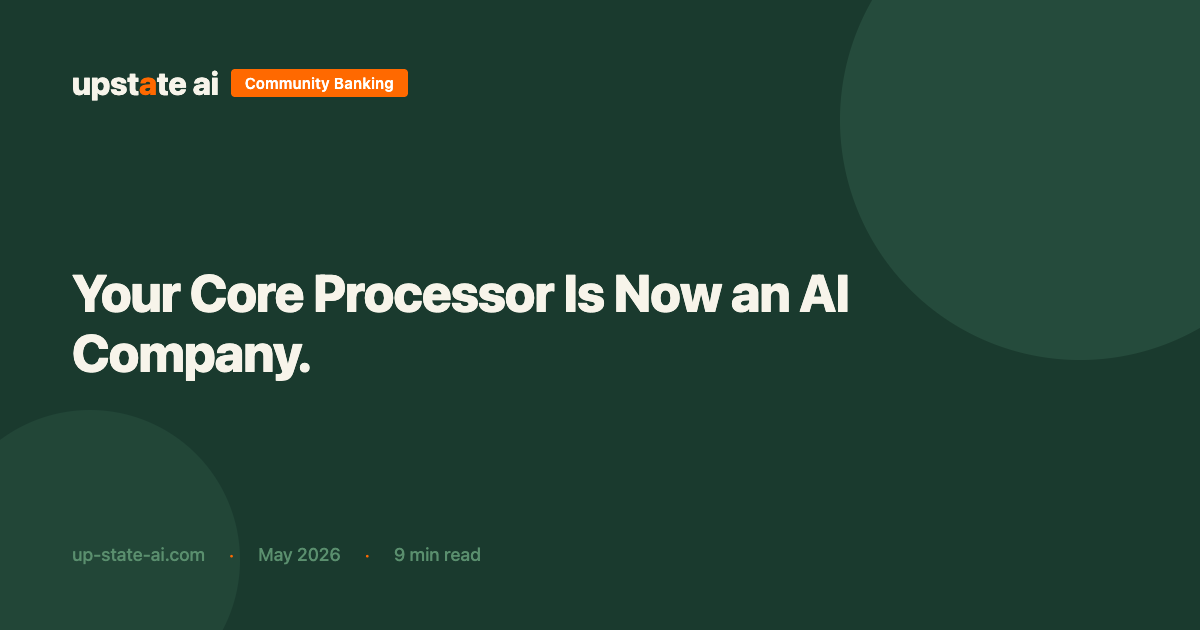
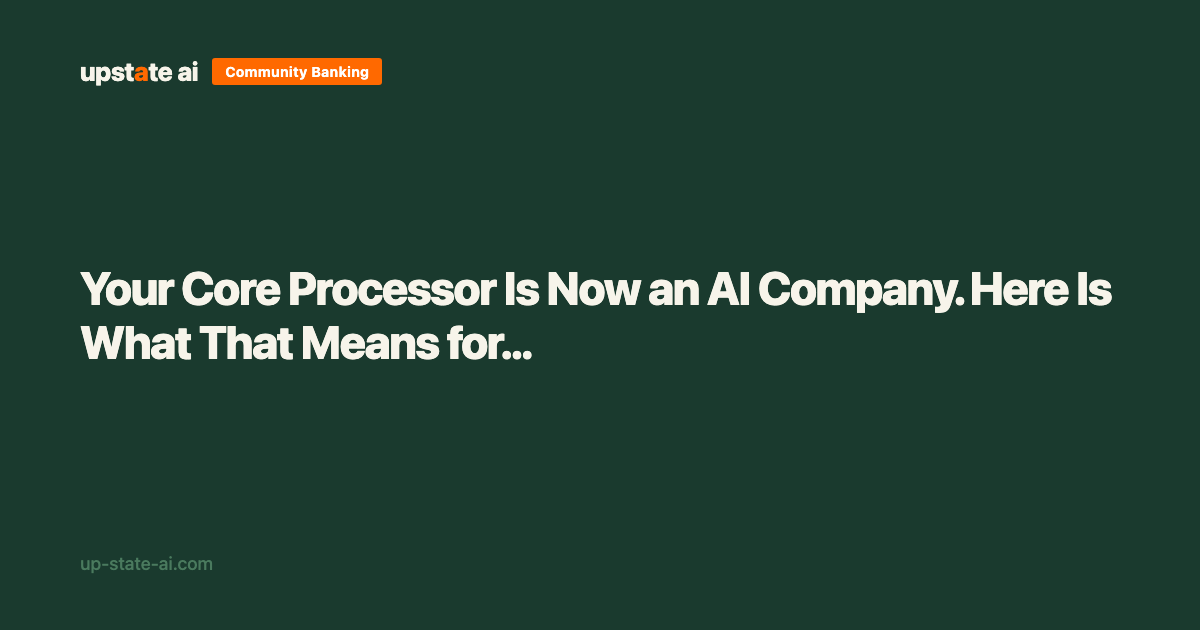
feat: per-post OG images for all 16 blog posts + generate-og.js script

diff --git a/scripts/generate-og.js b/scripts/generate-og.js
@@ -1,0 +1,116 @@
+#!/usr/bin/env node
+// generate-og.js — generate OG social card images for blog posts and pages
+// Usage: node scripts/generate-og.js
+// Generates images/og/<slug>.png for each blog post, plus images/og-image.png for the site
+
+import { execSync, spawnSync } from 'child_process';
+import { writeFileSync, mkdirSync, readFileSync } from 'fs';
+import { join, dirname } from 'path';
+import { fileURLToPath } from 'url';
+import os from 'os';
+
+const __dirname = dirname(fileURLToPath(import.meta.url));
+const ROOT = join(__dirname, '..');
+const OG_DIR = join(ROOT, 'images', 'og');
+const CHROME = '/Applications/Google Chrome.app/Contents/MacOS/Google Chrome';
+
+mkdirSync(OG_DIR, { recursive: true });
+
+// Brand
+const GREEN = '#1a3a2e';
+const CREAM = '#f7f4ea';
+const ORANGE = '#ff6900';
+const MUTED = '#4a7a5e';
+
+function buildHtml({ title, category, isGeneric = false }) {
+  if (isGeneric) {
+    return `<!DOCTYPE html><html><head><meta charset="UTF-8"><style>
+*{margin:0;padding:0;box-sizing:border-box;}
+body{width:1200px;height:630px;background:${GREEN};font-family:-apple-system,BlinkMacSystemFont,'Segoe UI',sans-serif;display:flex;flex-direction:column;justify-content:space-between;padding:60px 72px;}
+.logo{font-size:36px;font-weight:800;color:${CREAM};letter-spacing:-0.5px;}
+.logo span{color:${ORANGE};}
+.headline{font-size:72px;font-weight:800;color:${CREAM};line-height:1.1;letter-spacing:-2px;}
+.headline span{color:${ORANGE};}
+.sub{font-size:20px;font-weight:500;color:${MUTED};}
+</style></head><body>
+<div class="logo">upst<span>a</span>te ai</div>
+<div class="headline">Put <span>AI</span><br>to Work.</div>
+<div class="sub">up-state-ai.com</div>
+</body></html>`;
+  }
+
+  // Truncate at word boundary
+  const maxChars = 72;
+  let short = title;
+  if (title.length > maxChars) {
+    short = title.slice(0, maxChars).replace(/\s\S+$/, '') + '...';
+  }
+  const fontSize = short.length > 55 ? '46px' : short.length > 38 ? '54px' : '62px';
+
+  return `<!DOCTYPE html><html><head><meta charset="UTF-8"><style>
+*{margin:0;padding:0;box-sizing:border-box;}
+body{width:1200px;height:630px;background:${GREEN};font-family:-apple-system,BlinkMacSystemFont,'Segoe UI',sans-serif;position:relative;overflow:hidden;}
+.top{position:absolute;top:56px;left:80px;display:flex;align-items:center;gap:14px;}
+.logo{font-size:26px;font-weight:800;color:${CREAM};letter-spacing:-0.5px;}
+.logo span{color:${ORANGE};}
+.tag{background:${ORANGE};color:#fff;font-size:14px;font-weight:700;padding:5px 13px;border-radius:3px;letter-spacing:0.3px;}
+.headline{position:absolute;top:50%;left:80px;right:80px;transform:translateY(-50%);font-size:${fontSize};font-weight:800;color:${CREAM};line-height:1.18;letter-spacing:-1.5px;}
+.domain{position:absolute;bottom:56px;left:80px;font-size:18px;font-weight:500;color:${MUTED};}
+</style></head><body>
+<div class="top"><div class="logo">upst<span>a</span>te ai</div>${category ? `<div class="tag">${category}</div>` : ''}</div>
+<div class="headline">${short}</div>
+<div class="domain">up-state-ai.com</div>
+</body></html>`;
+}
+
+function renderOG(html, outPath) {
+  const tmp = join(os.tmpdir(), `og-${Date.now()}.html`);
+  writeFileSync(tmp, html);
+
+  spawnSync(CHROME, [
+    '--headless=new',
+    `--screenshot=${outPath}`,
+    '--window-size=1200,630',
+    '--force-device-scale-factor=1',
+    '--hide-scrollbars',
+    '--no-sandbox',
+    '--disable-gpu',
+    `file://${tmp}`
+  ], { stdio: 'pipe' });
+
+  execSync(`rm -f "${tmp}"`);
+}
+
+// --- Posts from posts.yml (simple parse) ---
+const postsYml = readFileSync(join(ROOT, '_data', 'posts.yml'), 'utf8');
+const posts = [];
+let current = {};
+for (const line of postsYml.split('\n')) {
+  if (line.match(/^- title:/)) {
+    if (current.url) posts.push(current);
+    current = {};
+  }
+  const titleMatch = line.match(/title:\s*"(.+)"/);
+  const urlMatch = line.match(/url:\s*"(.+)"/);
+  const catMatch = line.match(/category:\s*"(.+)"/);
+  if (titleMatch) current.title = titleMatch[1];
+  if (urlMatch) current.url = urlMatch[1];
+  if (catMatch) current.category = catMatch[1];
+}
+if (current.url) posts.push(current);
+
+// Generic site OG image
+console.log('Generating generic og-image.png...');
+renderOG(buildHtml({ isGeneric: true }), join(ROOT, 'images', 'og-image.png'));
+console.log('  done');
+
+// Per-post OG images
+for (const post of posts) {
+  const slug = post.url.replace('blog/', '');
+  const outPath = join(OG_DIR, `${slug}.png`);
+  console.log(`Generating og/${slug}.png...`);
+  renderOG(buildHtml({ title: post.title, category: post.category }), outPath);
+  console.log('  done');
+}
+
+console.log(`\nGenerated ${posts.length} post images + 1 generic. Output: images/og/`);

diff --git a/blog/immune-system-internet-april-2026.html b/blog/immune-system-internet-april-2026.html
@@ -27,7 +27,7 @@
     <meta property="og:url" content="https://up-state-ai.com/blog/immune-system-internet-april-2026">
     <meta property="og:title" content="The Immune System Internet: A Thought Experiment on Living Cybersecurity | Upstate AI">
     <meta property="og:description" content="What happens when digital defense stops looking like a firewall and starts looking like biology? A thought experiment prompted by Anthropic's Claude Mythos and OpenAI's GPT-5.4-Cyber.">
-    <meta property="og:image" content="https://up-state-ai.com/images/og-image.png">
+    <meta property="og:image" content="https://up-state-ai.com/images/og/immune-system-internet-april-2026.png">
     <meta property="og:site_name" content="Upstate AI">
     <meta property="article:published_time" content="2026-04-15">
     <meta property="article:author" content="Ben Nichols">

diff --git a/blog/agentic-payments-community-banks-april-2026.html b/blog/agentic-payments-community-banks-april-2026.html
@@ -27,7 +27,7 @@
     <meta property="og:url" content="https://up-state-ai.com/blog/agentic-payments-community-banks-april-2026">
     <meta property="og:title" content="AI Agents Can Now Swipe Your Card. Community Banks Need to Pay Attention. | Upstate AI">
     <meta property="og:description" content="Mastercard just gave AI agents the ability to use your credit card. Here's what that means for community banks, and why sitting this out isn't an option.">
-    <meta property="og:image" content="https://up-state-ai.com/images/og-image.png">
+    <meta property="og:image" content="https://up-state-ai.com/images/og/agentic-payments-community-banks-april-2026.png">
     <meta property="og:site_name" content="Upstate AI">
     <meta property="article:published_time" content="2026-04-18">
     <meta property="article:author" content="Ben Nichols">

diff --git a/blog/ai-literacy-st-bonaventure-april-2026.html b/blog/ai-literacy-st-bonaventure-april-2026.html
@@ -26,7 +26,7 @@
     <meta property="og:url" content="https://up-state-ai.com/blog/ai-literacy-st-bonaventure-april-2026">
     <meta property="og:title" content="St. Bonaventure Just Made the Smartest Move in Higher Ed">
     <meta property="og:description" content="St. Bonaventure University just made AI literacy mandatory for every incoming freshman. Here's why this is the smartest move in higher education, and what CNY businesses need to learn from it.">
-    <meta property="og:image" content="https://up-state-ai.com/images/og-image.png">
+    <meta property="og:image" content="https://up-state-ai.com/images/og/ai-literacy-st-bonaventure-april-2026.png">
     <meta property="og:site_name" content="Upstate AI">
     <meta property="article:published_time" content="2026-04-01">
     <meta property="article:author" content="Ben Nichols">

diff --git a/blog/anthropic-glasswing-april-2026.html b/blog/anthropic-glasswing-april-2026.html
@@ -27,7 +27,7 @@
     <meta property="og:url" content="https://up-state-ai.com/blog/anthropic-glasswing-april-2026">
     <meta property="og:title" content="Anthropic's Project Glasswing: AI's New Role in Cybersecurity | Upstate AI">
     <meta property="og:description" content="Anthropic announces Project Glasswing, uniting tech giants to use AI for defensive cybersecurity. What this means for your business as AI makes hacking easier, and defense smarter.">
-    <meta property="og:image" content="https://up-state-ai.com/images/og-image.png">
+    <meta property="og:image" content="https://up-state-ai.com/images/og/anthropic-glasswing-april-2026.png">
     <meta property="og:site_name" content="Upstate AI">
     <meta property="article:published_time" content="2026-04-08">
     <meta property="article:author" content="Ben Nichols">

diff --git a/blog/principled-prompting-april-2026.html b/blog/principled-prompting-april-2026.html
@@ -26,7 +26,7 @@
     <meta property="og:url" content="https://up-state-ai.com/blog/principled-prompting-april-2026">
     <meta property="og:title" content="Stop Prompting. Start Governing. | Upstate AI">
     <meta property="og:description" content="Most AI output is generic because most AI has no standards. Principled prompting is the practice of codifying your brand, ethics, and aesthetics so every AI interaction reflects who you are.">
-    <meta property="og:image" content="https://up-state-ai.com/images/og-image.png">
+    <meta property="og:image" content="https://up-state-ai.com/images/og/principled-prompting-april-2026.png">
     <meta property="og:site_name" content="Upstate AI">
     <meta property="article:published_time" content="2026-04-27">
     <meta property="article:author" content="Ben Nichols">

diff --git a/blog/ai-pilots-fail-march-2026.html b/blog/ai-pilots-fail-march-2026.html
@@ -26,7 +26,7 @@
     <meta property="og:url" content="https://up-state-ai.com/blog/ai-pilots-fail-march-2026">
     <meta property="og:title" content="Why 95% of AI Pilots Fail (And How to Unlock Real ROI in Weeks)">
     <meta property="og:description" content="MIT found 95% of AI pilots fail. McKinsey found two-thirds stuck in pilot mode. Learn the task-level mismatch causing failures and the 4-step framework the successful 5% use.">
-    <meta property="og:image" content="https://up-state-ai.com/images/og-image.png">
+    <meta property="og:image" content="https://up-state-ai.com/images/og/ai-pilots-fail-march-2026.png">
     <meta property="og:site_name" content="Upstate AI">
     <meta property="article:published_time" content="2026-03-30">
     <meta property="article:author" content="Ben Nichols">

diff --git a/blog/90-percent-ceos-ai-no-impact-april-2026.html b/blog/90-percent-ceos-ai-no-impact-april-2026.html
@@ -27,7 +27,7 @@
     <meta property="og:url" content="https://up-state-ai.com/blog/90-percent-ceos-ai-no-impact-april-2026">
     <meta property="og:title" content="90% of CEOs Say AI Had No Impact. Here's Why They're Right. | Upstate AI">
     <meta property="og:description" content="A new NBER study found 90% of firms saw zero productivity impact from AI. The problem isn't AI — it's how companies are adopting it.">
-    <meta property="og:image" content="https://up-state-ai.com/images/og-image.png">
+    <meta property="og:image" content="https://up-state-ai.com/images/og/90-percent-ceos-ai-no-impact-april-2026.png">
     <meta property="og:site_name" content="Upstate AI">
     <meta property="article:published_time" content="2026-04-19">
     <meta property="article:author" content="Ben Nichols">

diff --git a/blog/ai-weekly-march-31-2026.html b/blog/ai-weekly-march-31-2026.html
@@ -26,7 +26,7 @@
     <meta property="og:url" content="https://up-state-ai.com/blog/ai-weekly-march-31-2026">
     <meta property="og:title" content="AI Weekly Roundup: The Mystery Model, The Leaked Titan, and What Businesses Need to Know">
     <meta property="og:description" content="This week in AI: Hunter Alpha's mysterious debut, Anthropic's Mythos leak, the March model release wave, and what agentic AI means for CNY businesses.">
-    <meta property="og:image" content="https://up-state-ai.com/images/og-image.png">
+    <meta property="og:image" content="https://up-state-ai.com/images/og/ai-weekly-march-31-2026.png">
     <meta property="og:site_name" content="Upstate AI">
     <meta property="article:published_time" content="2026-03-31">
     <meta property="article:author" content="Ben Nichols">

diff --git a/blog/google-ai-pilot-research-march-2026.html b/blog/google-ai-pilot-research-march-2026.html
@@ -26,7 +26,7 @@
     <meta property="og:url" content="https://up-state-ai.com/blog/google-ai-pilot-research-march-2026">
     <meta property="og:title" content="Google Researchers Explain Why Your AI Pilot Failed">
     <meta property="og:description" content="Google Research just published academic validation for workflow redesign. Learn why 'human-AI centaurs' and institutional alignment explain the 95% failure rate.">
-    <meta property="og:image" content="https://up-state-ai.com/images/og-image.png">
+    <meta property="og:image" content="https://up-state-ai.com/images/og/google-ai-pilot-research-march-2026.png">
     <meta property="og:site_name" content="Upstate AI">
     <meta property="article:published_time" content="2026-03-30">
     <meta property="article:author" content="Ben Nichols">

diff --git a/blog/ai-inflection-point-td-bank-2026.html b/blog/ai-inflection-point-td-bank-2026.html
@@ -26,7 +26,7 @@
     <meta property="og:url" content="https://up-state-ai.com/blog/ai-inflection-point-td-bank-2026">
     <meta property="og:title" content="The AI Inflection Point: What TD Bank's 2026 Report Means for Your Business">
     <meta property="og:description" content="TD Bank's latest AI report shows a 15-point gap between ambition and adoption. Here's how Central NY companies can close it.">
-    <meta property="og:image" content="https://up-state-ai.com/images/og-image.png">
+    <meta property="og:image" content="https://up-state-ai.com/images/og/ai-inflection-point-td-bank-2026.png">
     <meta property="og:site_name" content="Upstate AI">
     <meta property="article:published_time" content="2026-04-03">
     <meta property="article:author" content="Ben Nichols">

diff --git a/blog/ai-weekly-april-13-2026.html b/blog/ai-weekly-april-13-2026.html
@@ -27,7 +27,7 @@
     <meta property="og:url" content="https://up-state-ai.com/blog/ai-weekly-april-13-2026">
     <meta property="og:title" content="AI Just Got Cheaper, Smarter, and Closer to Your Business | Upstate AI">
     <meta property="og:description" content="A breakdown of this week's biggest AI developments, and why they matter more to a manufacturer in Syracuse than a startup in San Francisco.">
-    <meta property="og:image" content="https://up-state-ai.com/images/og-image.png">
+    <meta property="og:image" content="https://up-state-ai.com/images/og/ai-weekly-april-13-2026.png">
     <meta property="og:site_name" content="Upstate AI">
     <meta property="article:published_time" content="2026-04-13">
     <meta property="article:author" content="Ben Nichols">
